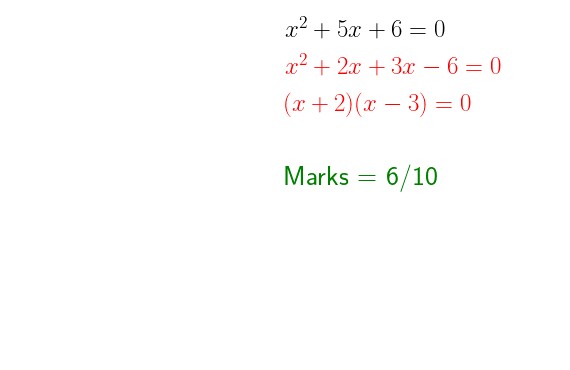
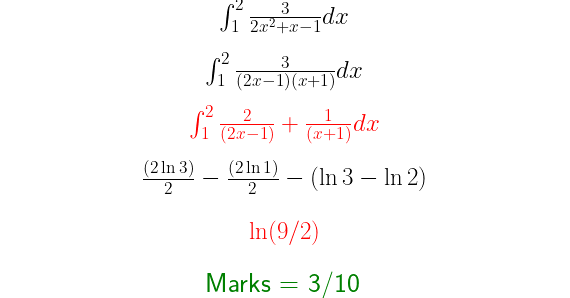
fixed design

diff --git a/app/app.py b/app/app.py
@@ -60,14 +60,15 @@ def image_to_latex(image_path):
     # print("New file name:", new_file)
 
     command = "mpx convert " + image_path + " app/gen/" + new_file + ".tex"
-    os.system(command)
+    # os.system(command)
 
     # clear the screen
-    os.system("cls")
+    # os.system("cls")
+    new_file = 'extracted_latex_5'
 
-    file_path = "app/gen/" + new_file + ".tex.zip"
+    # file_path = "app/gen/" + new_file + ".tex.zip"
     # rename the file
-    os.rename(file_path, "app/gen/" + new_file + ".tex")
+    # os.rename(file_path, "app/gen/" + new_file + ".tex")
 
     # read the file
     with open("app/gen/" + new_file + ".tex", "r") as file:
@@ -155,20 +156,22 @@ def output(
 
         ax.text(
             0.5,
-            0.9 - i * 0.1,  # Adjust the vertical position for each line
+            0.9 - i * 0.3,  # Adjust the vertical position for each line
             f"${equation}$",
             usetex=True,
             fontsize=18,
             color=color,
+            horizontalalignment="center",
         )
 
     ax.text(
         0.5,
-        0.9 - (i + 2) * 0.1,
+        0.9 - (i + 1) * 0.3,
         f"Marks = {marks}",
         usetex=True,
         fontsize=20,
         color="green",
+        horizontalalignment="center",
     )
     ax.axis("off")
     plt.tight_layout()  # Ensure that the equations do not overlap
